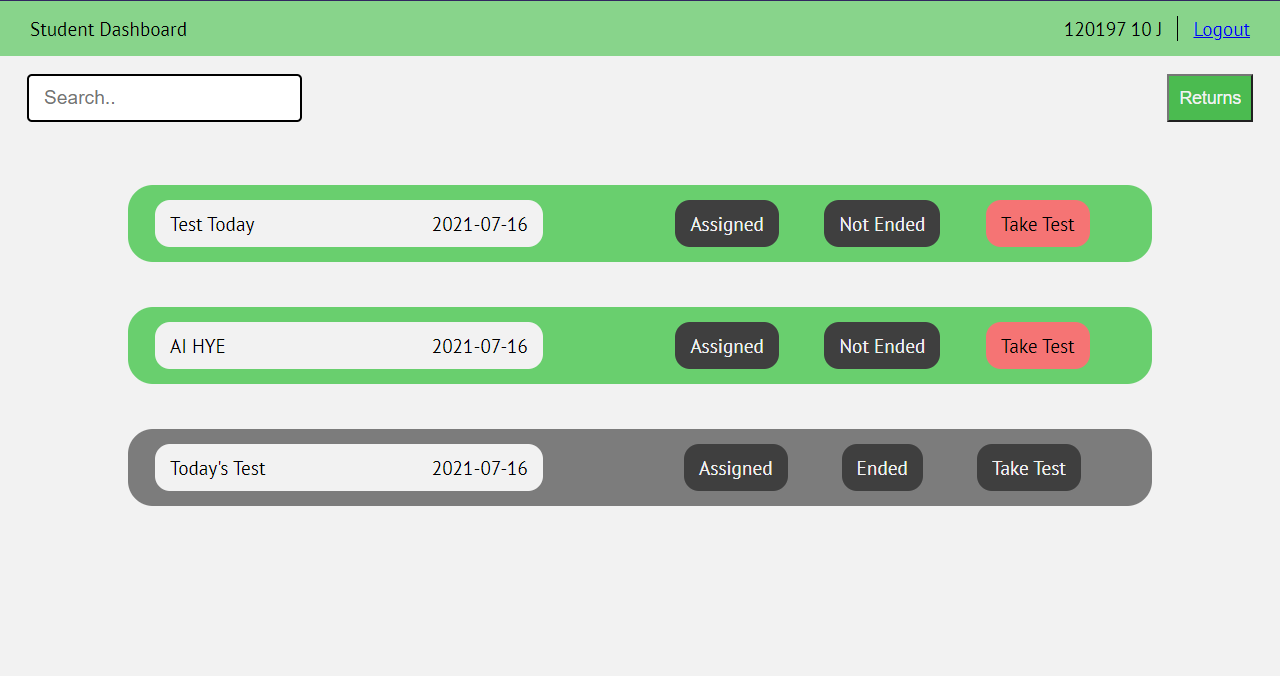
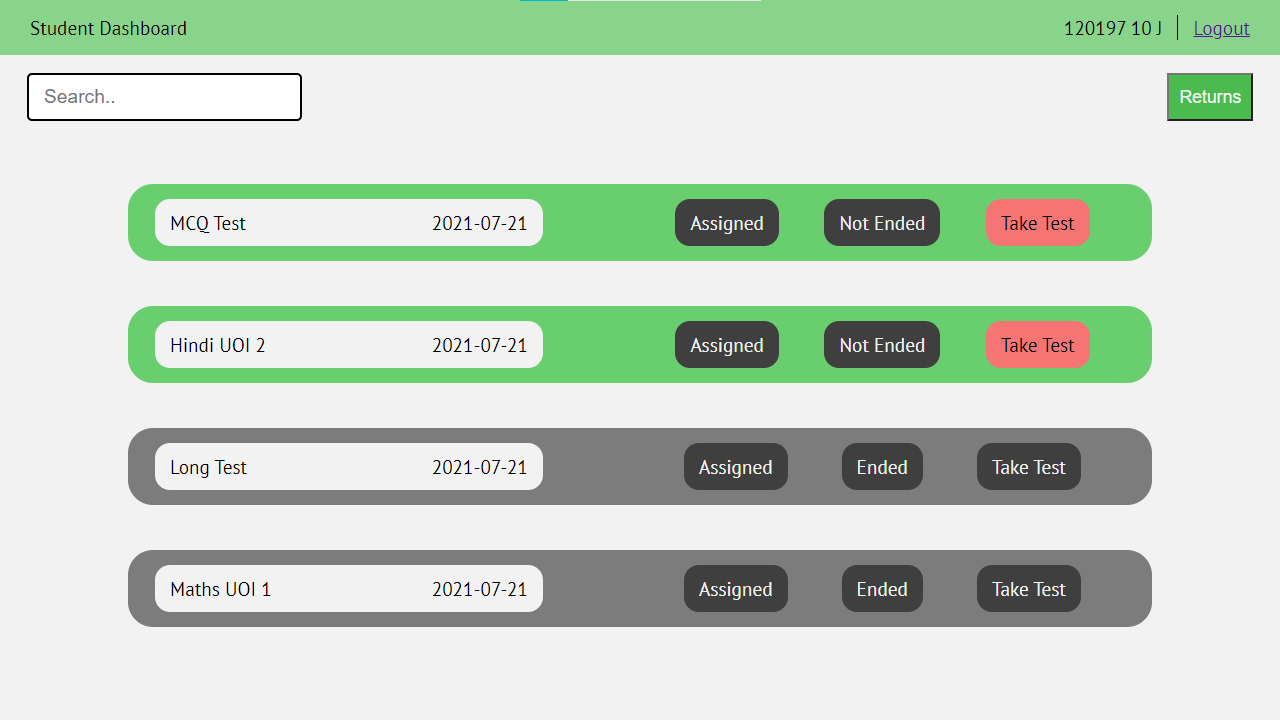
fixed bugs

diff --git a/static/js/main-assignment-functions.js b/static/js/main-assignment-functions.js
@@ -1,7 +1,7 @@
 //update
 var results_data, c_section, _title, _id, oldTitle, _type;
 
-function openTask(title, time, desc, fileText, type){
+function openTask(title, time, desc, fileText, type, cheatData){
     loadWindow('mid', 2000)
     $('.create-task-wrapper').css({'display':'block'});
     $('.results-container').css({'display':'none'})
@@ -14,18 +14,31 @@ function openTask(title, time, desc, fileText, type){
     _type = type
     if(type == 'long'){
         $('#update-file-input').css({'display':'block'})
-        $('.mcq-question-container').css({'display':'none'})
+        $('.update-mcq-question-container').css({'display':'none'})
         $('#update-file-input').val(fileText)
+        $('.update-advanced-cheat-prevent').css({'display':'none'})
+        if(cheatData['windowCheat']){
+            $('#update-allow-change-window-check')[0].checked = true;
+        }
     }
     else if(type == 'mcq'){
         $('#update-file-input').css({'display':'none'})
-        $('.mcq-question-container').css({'display':'block'})
+        $('.update-mcq-question-container').css({'display':'block'})
+        $('.update-advanced-cheat-prevent').css({'display':'block'})
+        if(cheatData['windowCheat']){
+            $('#update-allow-change-window-check')[0].checked = true;
+        }
+        if(cheatData['questionCheat']){
+            $('#update-allow-change-question-check')[0].checked = true;
+        }else if(!cheatData['questionCheat']){
+            $('#update-allow-change-question-check')[0].checked = false;
+        }
         parent = document.getElementById('update-question-container')
         parent.innerHTML = ''
         for(let i=0;i<fileText.length;i++){
             wrap = document.createElement('div')
             wrap.classList.add('update-question-wrapper')
-            wrap.innerHTML = '<input type="text" class="question" placeholder="Enter Question" value="'+ fileText[i]['question'] +'"><input type="text" class="option" placeholder="Option A" value="'+ fileText[i]['options'][0] + '"><input type="text" class="option" placeholder="Option B" value="'+ fileText[i]['options'][1] + '"><input type="text" class="option" placeholder="Option C" value="'+ fileText[i]['options'][2] + '"><input type="text" class="option" placeholder="Option D" value="'+ fileText[i]['options'][3] + '"><input type=text class="correct" placeholder="Correct Option" value="'+ fileText[i]['correct'] + '"><button id="delete-question-btn" onclick="deleteQuestion(this)>Delete</button>'
+            wrap.innerHTML = '<input type="text" class="question" placeholder="Enter Question" value="'+ fileText[i]['question'] +'"><input type="text" class="option" placeholder="Option A" value="'+ fileText[i]['options'][0] + '"><input type="text" class="option" placeholder="Option B" value="'+ fileText[i]['options'][1] + '"><input type="text" class="option" placeholder="Option C" value="'+ fileText[i]['options'][2] + '"><input type="text" class="option" placeholder="Option D" value="'+ fileText[i]['options'][3] + '"><input type=text class="correct" placeholder="Correct Option" value="' + fileText[i]['correct'] + '"><button class="delete-question-btn" onclick="deleteQuestion(this)">Delete</button>'
             parent.appendChild(wrap)
         }
     }
@@ -174,7 +187,7 @@ function getAssignmentData(_method, assignment_name){
         if(tempData[i]['title'] == taskname){
             if(_func == 'update'){
                 loadWindow('mid', 1000)
-                openTask(tempData[i]['title'], tempData[i]['time'], tempData[i]['description'], tempData[i]['file'], tempData[i]['type']);
+                openTask(tempData[i]['title'], tempData[i]['time'], tempData[i]['description'], tempData[i]['file'], tempData[i]['type'], tempData[i]);
             }
             else if(_func == 'assign'){
                 postTask('assign', tempData[i]['title']);
@@ -228,7 +241,7 @@ function reAssignUpdateButton(){
     });
 }
 
-const postUpdatedAssignment = (questions) => {
+const postUpdatedAssignment = (questions, q_cheat, w_cheat) => {
     console.log(questions)
     $.ajax({
         type: 'POST',
@@ -236,6 +249,8 @@ const postUpdatedAssignment = (questions) => {
         data:{
             type: _type,
             class: _class,
+            windowCheat: w_cheat,
+            questionCheat: q_cheat,
             old_title: oldTitle,
             title: $('#update-title-input').val(),
             time: $('#update-time-input').val(),
@@ -254,16 +269,25 @@ const postUpdatedAssignment = (questions) => {
 }   
 
 $('#update-form-submit').on('click', (e) => {
+    let window_cheat = false
+    let view_question = false
     loadWindow('mid', 2000)
     e.preventDefault()
     _class = currentClass
     today = new Date().toISOString().slice(0, 10);
+    if($('#update-allow-change-window-check').is(':checked')){
+        window_cheat = true;
+    }
+    if($('#update-allow-change-window-check').is(':checked')){
+        view_question = true;
+    }
     if(_type == 'long'){
         $.ajax({
             type: 'POST',
             url: '/teacher/exam_update_file/',
             data:{
                 type: _type,
+                windowCheat: window_cheat,
                 class: _class,
                 old_title: oldTitle,
                 title: $('#update-title-input').val(),
@@ -298,7 +322,7 @@ $('#update-form-submit').on('click', (e) => {
             tempData.correct = c.toUpperCase()
             questions.push(tempData)
         }
-        postUpdatedAssignment(JSON.stringify(questions))
+        postUpdatedAssignment(JSON.stringify(questions), window_cheat, view_question)
     }
     $('#update-assignment').trigger("reset");
 })

diff --git a/static/js/create-new-assignment.js b/static/js/create-new-assignment.js
@@ -9,7 +9,7 @@ firebase.initializeApp(firebaseConfig);
 var database = firebase.database();
 var storage = firebase.storage();
 
-const postAssignment = (questions) => {
+const postAssignment = (questions, w_cheat, q_cheat) => {
     today = new Date().toISOString().slice(0, 10);
     _class = currentClass
     $.ajax({
@@ -18,6 +18,8 @@ const postAssignment = (questions) => {
         data:{
             type: 'mcq',
             class: _class,
+            windowCheat: w_cheat,
+            questionCheat: q_cheat,
             title: $('#assignment-title-input').val(),
             time: $('#assignment-time-input').val(),
             description: $('#assignment-description-input').val(),
@@ -26,6 +28,16 @@ const postAssignment = (questions) => {
             csrfmiddlewaretoken: $('input[name=csrfmiddlewaretoken]').val()
         },success :function(){
             fetchAssignments();
+            //reset
+            $('#assignment-title-input').val('')
+            $('#assignment-time-input').val('')
+            $('#assignment-description-input').val('')
+            $('#assignment-file-input').val('')
+            $('#allow-change-window-check')[0].checked = false
+            $('#allow-change-question-check')[0].checked = false
+            $('#long-answer-type')[0].checked = false
+            $('#mcq-answer-type')[0].checked = false
+
             $('.create-task-wrapper').css({'display':'none'});
             $('.assignments-container').css({'display':'block'});
             $('#create-assignment').css({'display':'none'});
@@ -35,15 +47,24 @@ const postAssignment = (questions) => {
 }
 
 $('#assignment-form-submit').on('click', (e) => {
+    let window_cheat = false
+    let view_question = false
     loadWindow('mid', 2000)
     today = new Date().toISOString().slice(0, 10);
     _class = currentClass
+    if($('#allow-change-window-check').is(':checked')){
+        window_cheat = true;
+    }
+    if($('#allow-change-question-check').is(':checked')){
+        view_question = true;
+    }
     if(paperType == 'long'){
         $.ajax({
             type: 'POST',
             url: '/teacher/exam_create/',
             data:{
                 type: 'long',
+                windowCheat: window_cheat,
                 class: _class,
                 title: $('#assignment-title-input').val(),
                 time: $('#assignment-time-input').val(),
@@ -52,6 +73,16 @@ $('#assignment-form-submit').on('click', (e) => {
                 file: $('#assignment-file-input').val(),
                 csrfmiddlewaretoken: $('input[name=csrfmiddlewaretoken]').val()
             },success :function(){
+                //reset
+                $('#assignment-title-input').val('')
+                $('#assignment-time-input').val('')
+                $('#assignment-description-input').val('')
+                $('#assignment-file-input').val('')
+                $('#allow-change-window-check')[0].checked = false
+                $('#allow-change-question-check')[0].checked = false
+                $('#long-answer-type')[0].checked = false
+                $('#mcq-answer-type')[0].checked = false
+
                 fetchAssignments();
                 $('.create-task-wrapper').css({'display':'none'});
                 $('.assignments-container').css({'display':'block'});
@@ -77,7 +108,7 @@ $('#assignment-form-submit').on('click', (e) => {
             tempData.correct = c.toUpperCase()
             questions.push(tempData)
         }
-        postAssignment(JSON.stringify(questions))
+        postAssignment(JSON.stringify(questions), window_cheat, view_question)
     }   
     $('#create-assignment').trigger("reset"); 
 });

diff --git a/static/css/teacherDashboard.css b/static/css/teacherDashboard.css
@@ -579,7 +579,7 @@ body{
     padding: 10px;
     margin: 20px 0px;
 }
-.mcq-question-container{
+.mcq-question-container, .update-mcq-question-container{
     display: none;
     width: 100%;
     background: #f2f2f2;
@@ -589,6 +589,46 @@ body{
     min-height: 400px;
     max-height: 500px;
     overflow-y: auto;
+}
+.question, .option, .correct{
+    padding: 5px;
+    font-size: 1em;
+    margin: 5px;
+    display: block;
+    width: 70%;
+}
+.question{
+    margin-bottom: 10px;
+}
+.correct{
+    margin-top: 10px;
+    width: fit-content;
+}
+#add-question-btn{
+    padding: 5px;
+    font-size: 1em;
+    cursor: pointer;
+    margin: 5px;
+    margin-bottom: 20px;
+}
+.delete-question-btn{
+    padding: 5px;
+    font-size: 0.9em;
+    cursor: pointer;
+    margin: 5px;
+    margin-top: 10px;
+}
+.cheat-prevent-inputs, .update-cheat-prevent-inputs{
+    background: #f2f2f2;
+    padding: 10px;
+    margin: 10px 0;
+    font-size: 1.1em;
+}
+.advanced-cheat-prevent, .update-advanced-cheat-prevent{
+    display: none;
+}
+.question-wrapper, .update-question-wrapper{
+    margin: 15px 0;
 }
 @media screen and (max-width: 1260px) {
     .assignment-class-functions{
@@ -610,6 +650,10 @@ body{
         min-height: 150px;
         margin-bottom: 30px;
     }
+    .question, .option{
+        width: 100%;
+    }
+
 }
 @media screen and (max-width: 550px) {
     .title-time-wrapper{
@@ -716,5 +760,8 @@ body{
     }
     .student-select-btn{
         font-size: 1.1em;
+    }
+    .correct{
+        width: 100%;
     }
 }
